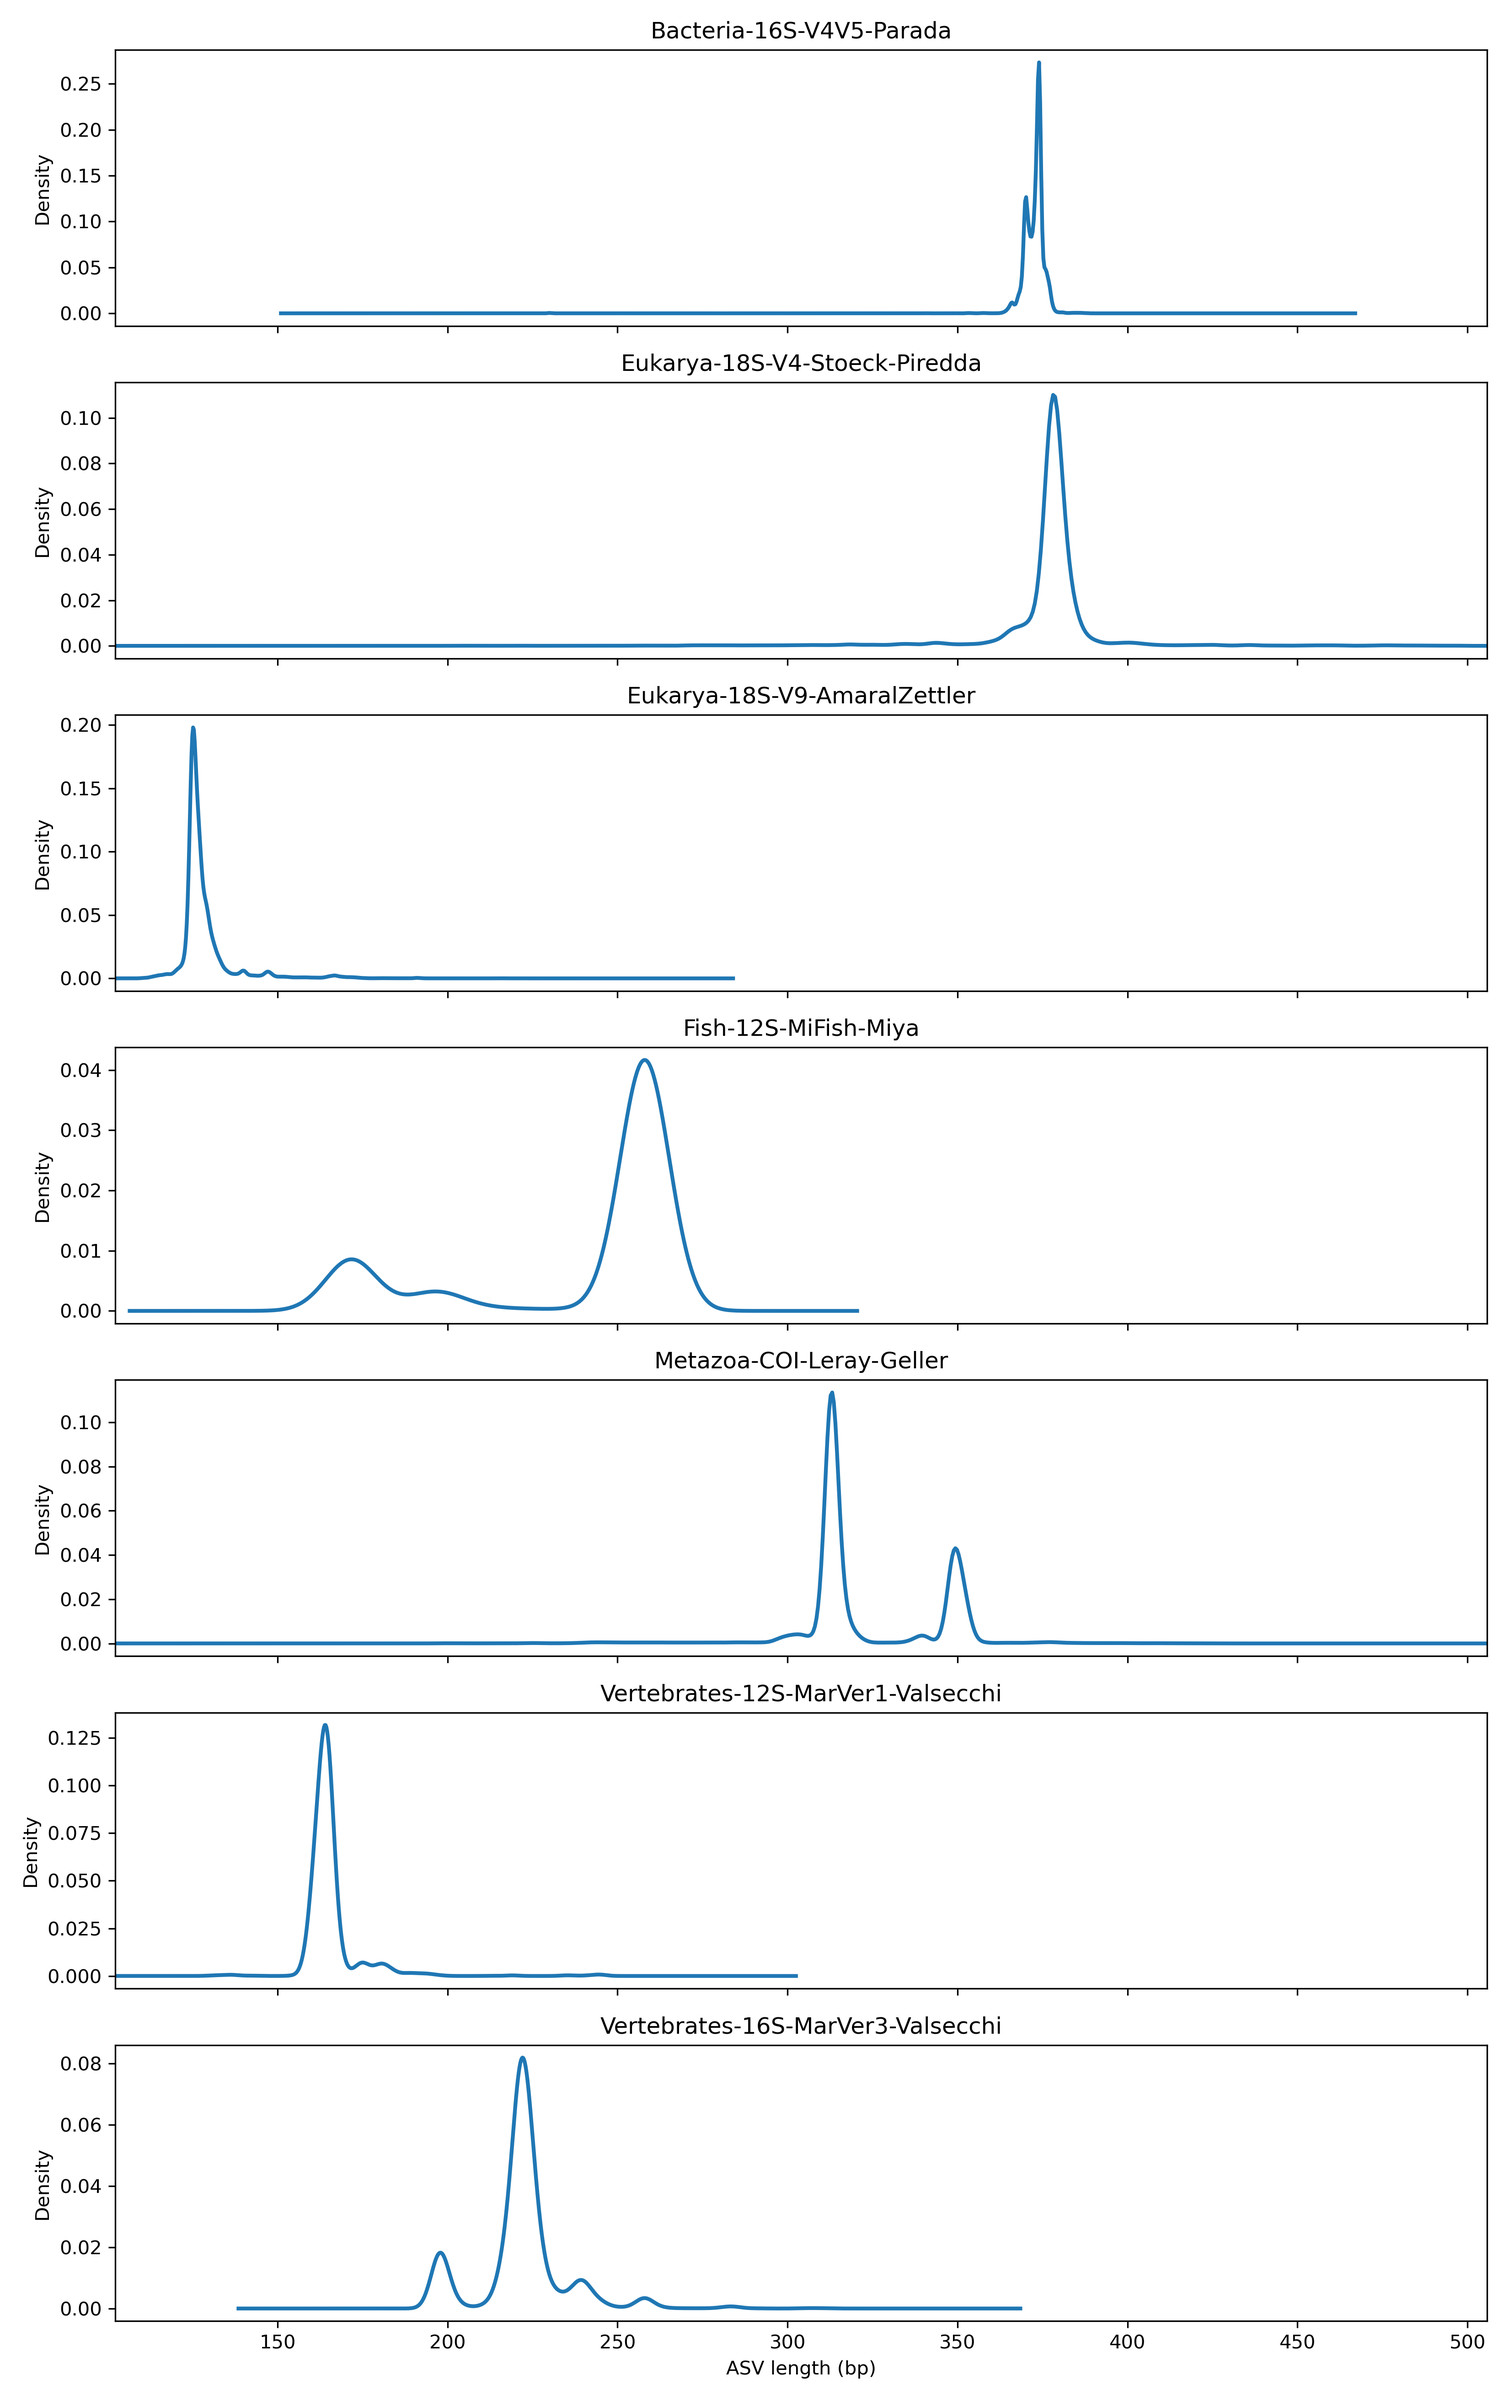
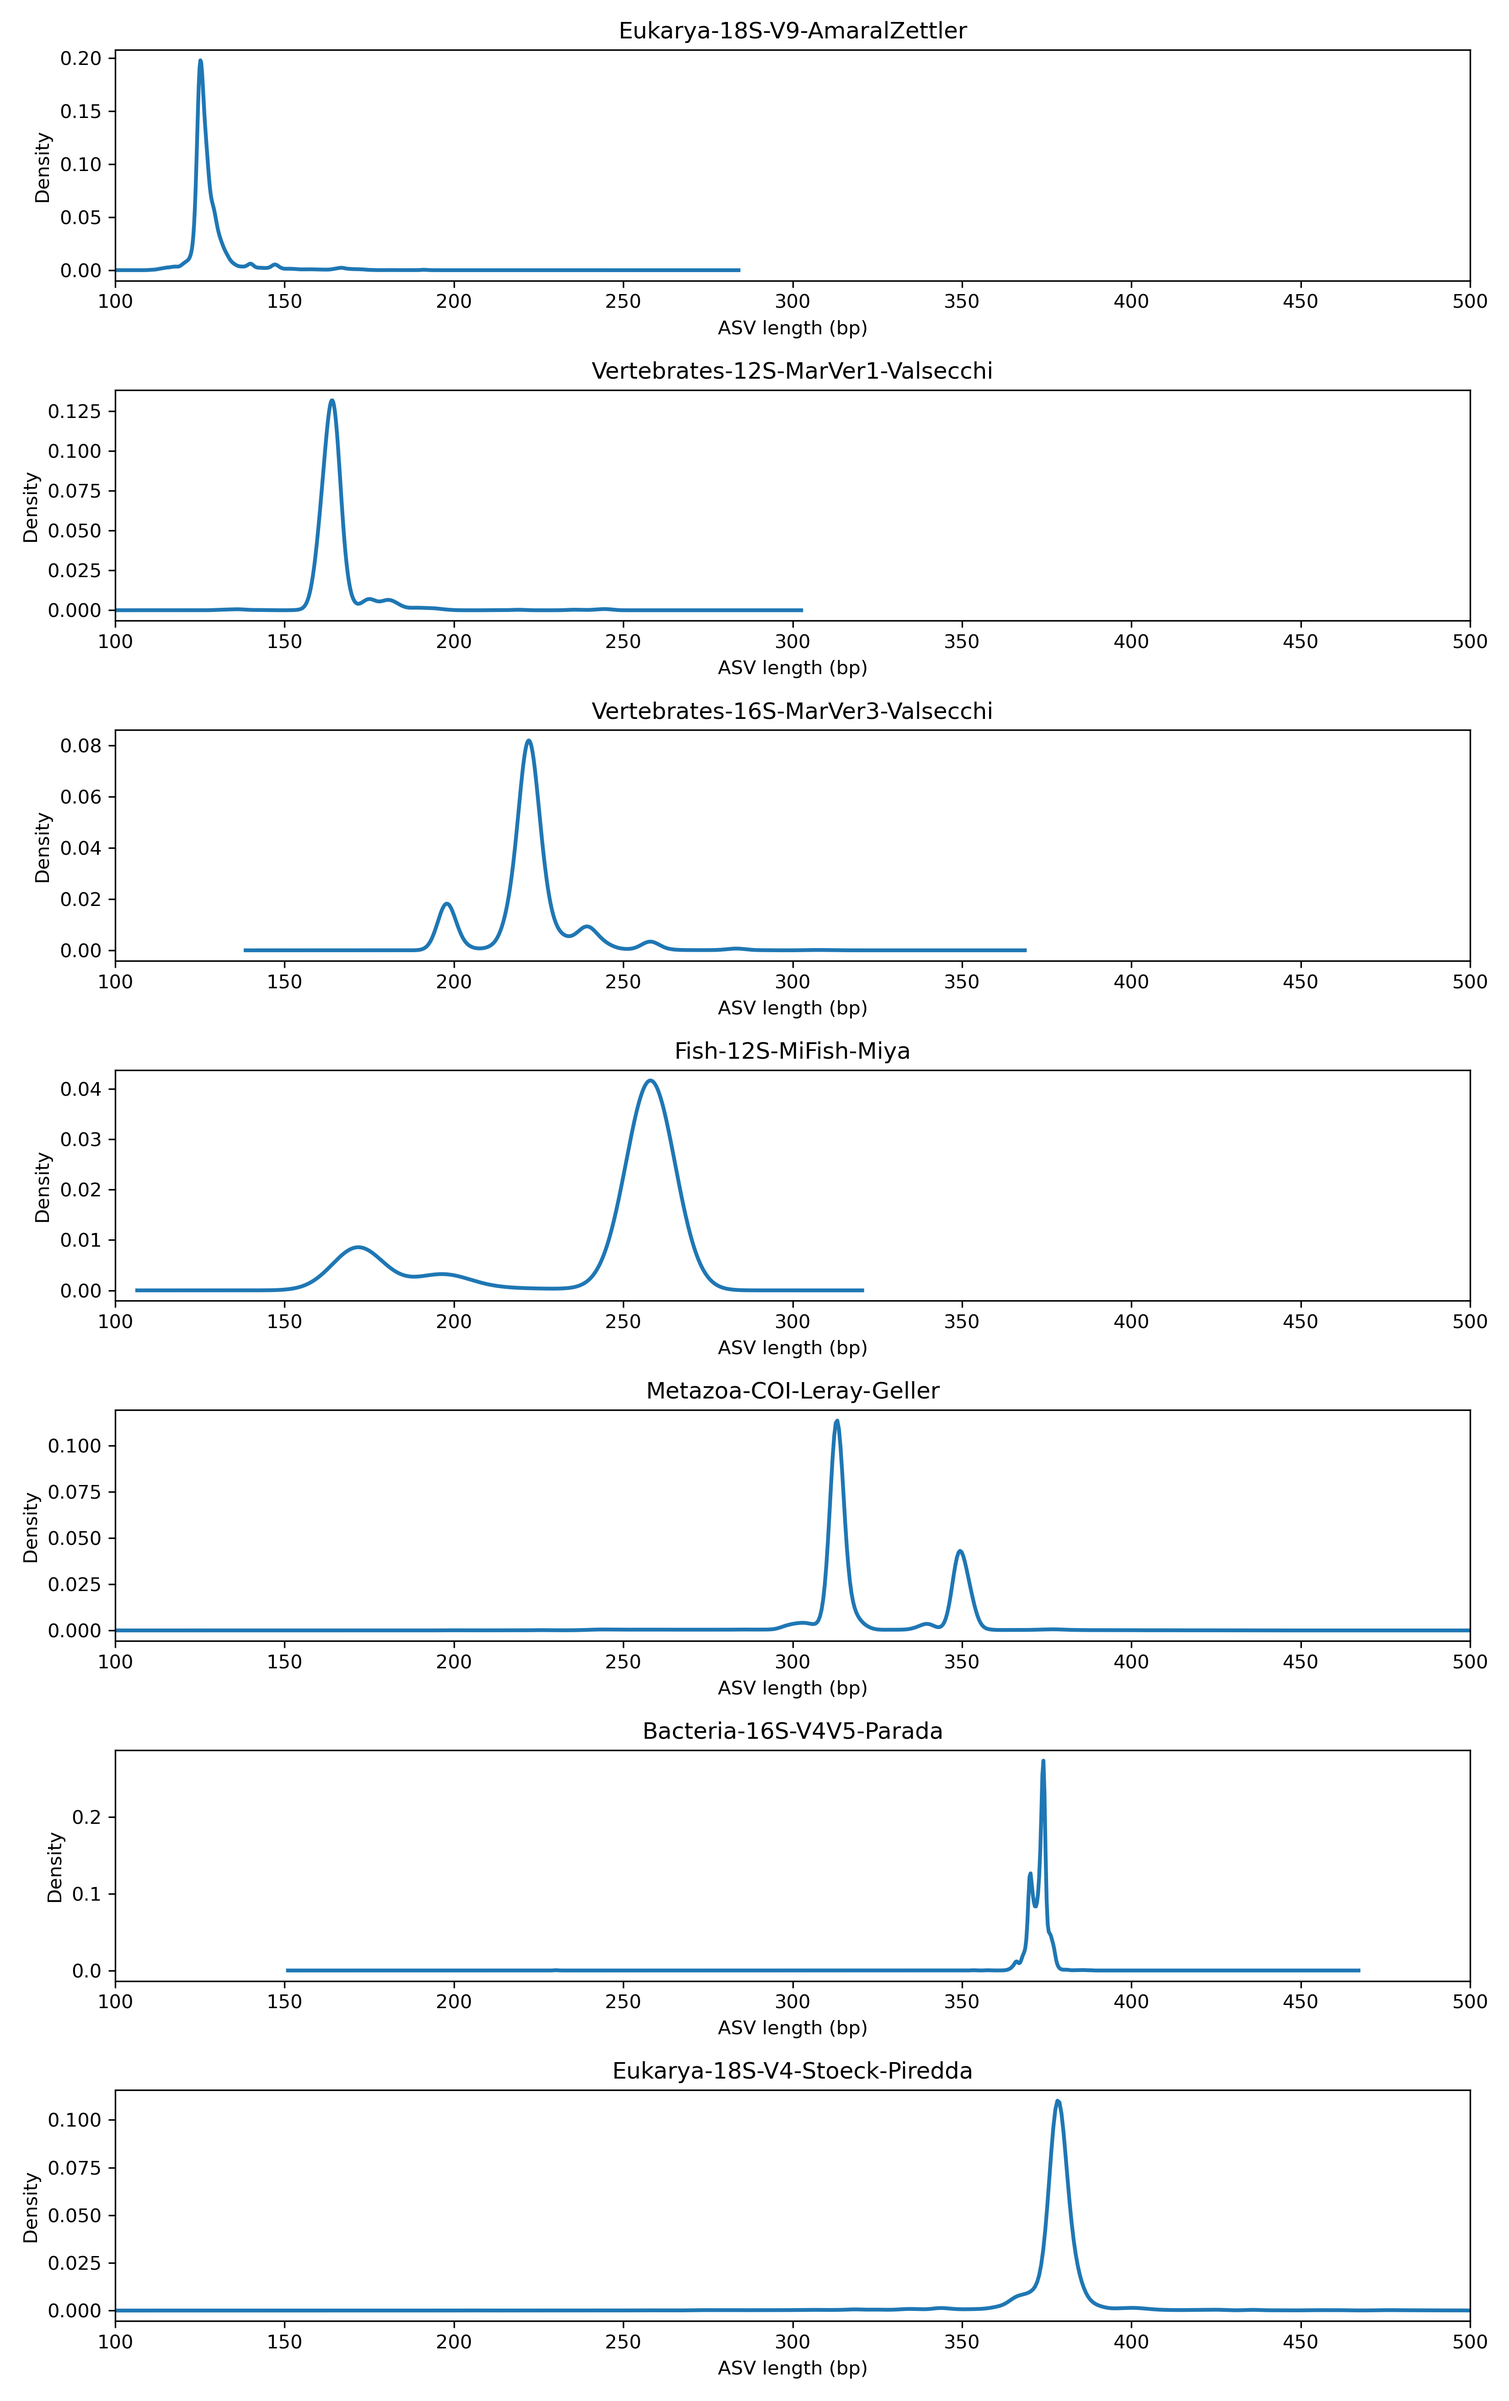
improving plot layout

diff --git a/amplicon-lengths/ampLenDist.py b/amplicon-lengths/ampLenDist.py
@@ -3,9 +3,11 @@
 from __future__ import annotations
 
 import argparse
+import math
 from pathlib import Path
 
 import matplotlib.pyplot as plt
+from matplotlib.ticker import MultipleLocator
 import pandas as pd
 
 
@@ -37,6 +39,7 @@ def read_lengths_from_folder(folder: Path) -> pd.Series:
 def compute_stats(folder_name: str, lengths: pd.Series) -> pd.Series:
 	"""Compute describe() statistics and add the folder label."""
 	desc = lengths.describe()
+	desc["median"] = desc["50%"]
 	desc["folder"] = folder_name
 	return desc
 
@@ -44,7 +47,7 @@ def compute_stats(folder_name: str, lengths: pd.Series) -> pd.Series:
 def plot_kde_panels(folder_lengths: list[tuple[str, pd.Series]], output_png: Path) -> None:
 	"""Plot one KDE panel per folder in a single-column layout."""
 	panel_count = len(folder_lengths)
-	fig, axes = plt.subplots(panel_count, 1, figsize=(11, max(2.5 * panel_count, 4)), sharex=True)
+	fig, axes = plt.subplots(panel_count, 1, figsize=(11, max(2.5 * panel_count, 4)), sharex=False)
 
 	if panel_count == 1:
 		axes = [axes]
@@ -52,11 +55,12 @@ def plot_kde_panels(folder_lengths: list[tuple[str, pd.Series]], output_png: Pat
 	all_lengths = pd.concat([lengths for _, lengths in folder_lengths], ignore_index=True)
 	x_min = float(all_lengths.min())
 	x_max = float(all_lengths.max())
-	if x_min == x_max:
-		x_pad = 1.0
-	else:
-		x_pad = (x_max - x_min) * 0.02
-	shared_xlim = (x_min - x_pad, x_max + x_pad)
+	x_lower = 50 * math.floor(x_min / 50)
+	x_upper = 50 * math.ceil(x_max / 50)
+	if x_lower == x_upper:
+		x_lower -= 50
+		x_upper += 50
+	shared_xlim = (x_lower, x_upper)
 
 	for ax, (folder_name, lengths) in zip(axes, folder_lengths):
 		if lengths.nunique() > 1:
@@ -76,9 +80,7 @@ def plot_kde_panels(folder_lengths: list[tuple[str, pd.Series]], output_png: Pat
 		ax.set_xlabel("ASV length (bp)")
 		ax.set_ylabel("Density")
 		ax.set_xlim(shared_xlim)
-		ax.tick_params(axis="x", which="both", labelbottom=True)
-		for tick_label in ax.get_xticklabels():
-			tick_label.set_visible(True)
+		ax.xaxis.set_major_locator(MultipleLocator(50))
 
 	fig.tight_layout()
 	fig.savefig(output_png, dpi=300)
@@ -131,9 +133,14 @@ def main() -> None:
 	if not rows:
 		raise SystemExit("No numeric values found in column 2 across discovered folders.")
 
+	folder_lengths.sort(key=lambda item: item[1].median())
+	rows.sort(key=lambda row: row["median"])
+
 	stats_df = pd.DataFrame(rows)
 	first_col = stats_df.pop("folder")
 	stats_df.insert(0, "folder", first_col)
+	median_col = stats_df.pop("median")
+	stats_df.insert(stats_df.columns.get_loc("50%") + 1, "median", median_col)
 	stats_df.to_csv(args.stats_out, sep="\t", index=False)
 
 	plot_kde_panels(folder_lengths, args.plot_out)
